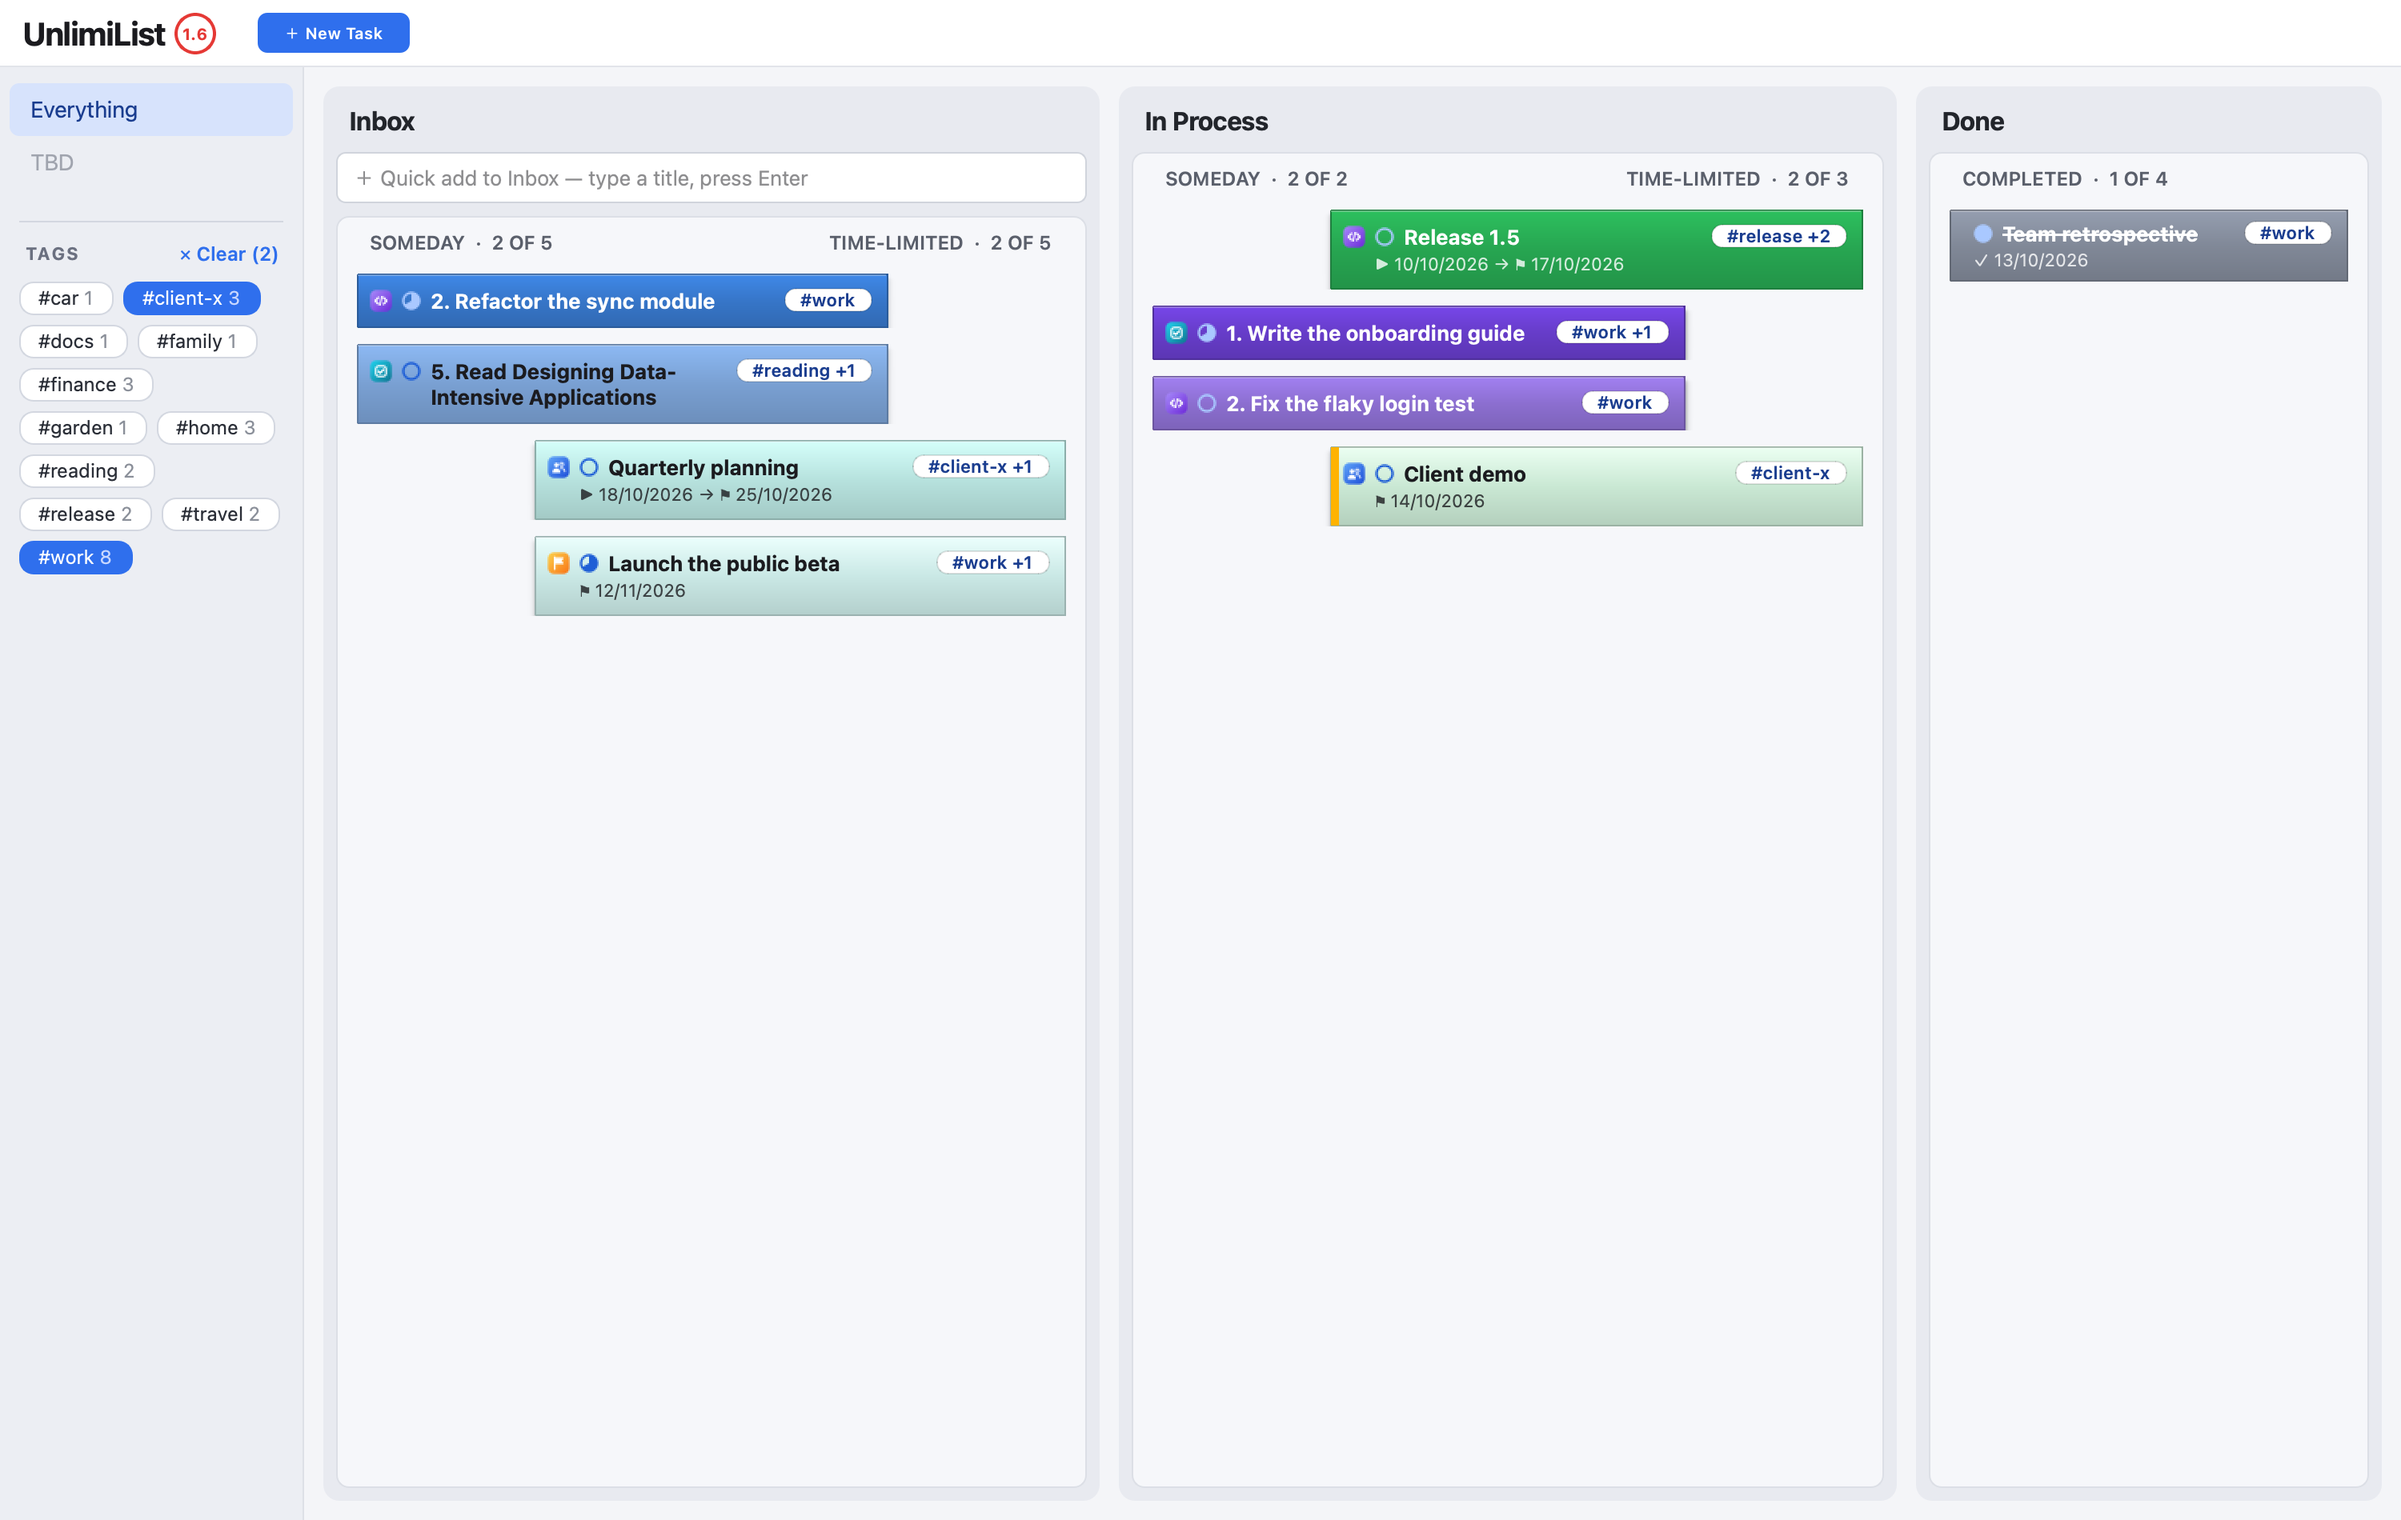
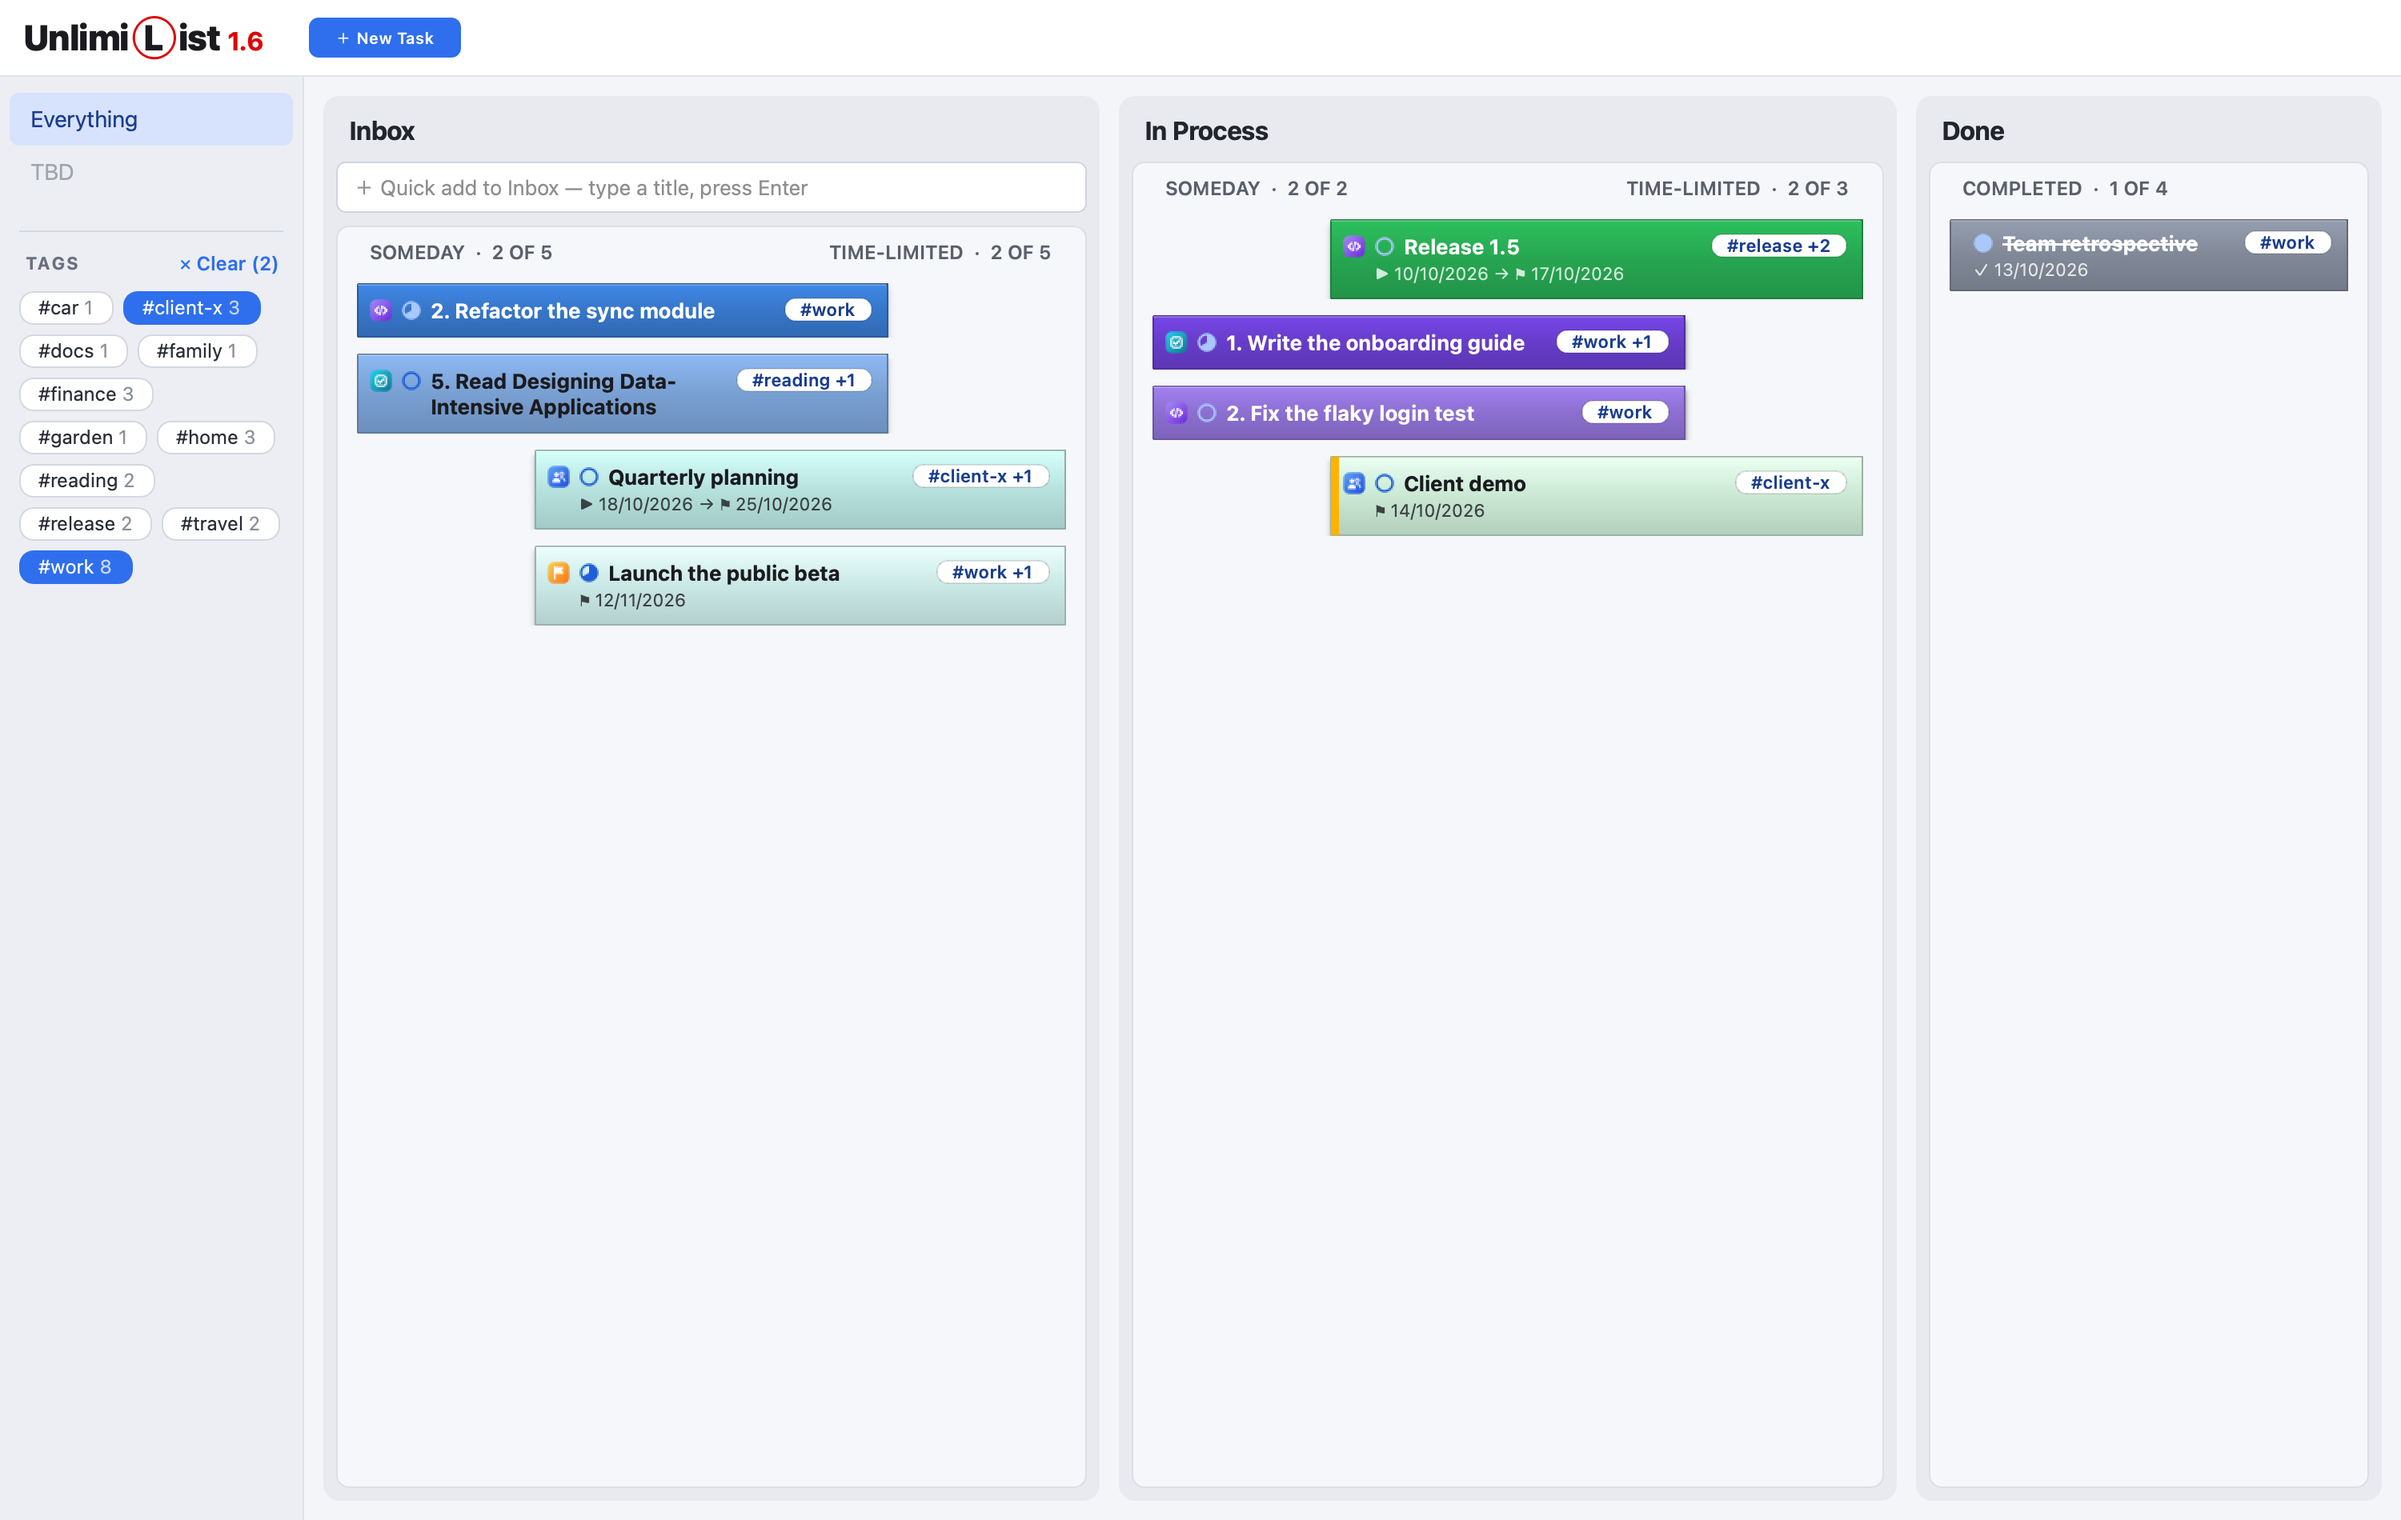
Toolbar title: the L of UnlimiList in a red ring, version in red
Follows the logo reference: "UnlimiList" in extra-bold black with only
the L inside a thin red ring (#DC0405), then the version in bold red
without a circle. The layout uses the letters' outlines rather than font
metrics, so the L sits exactly in the ring's centre and the letters on
either side keep a clear gap from it. Replaces the old version badge.

diff --git a/src/unlimilist/ui/app_title.py b/src/unlimilist/ui/app_title.py
@@ -1,0 +1,115 @@
+"""The app's name in the toolbar: "UnlimiList" in bold, its L inside a thin red ring, then the version in red."""
+
+from PySide6.QtCore import QPointF, QRectF, QSize, Qt
+from PySide6.QtGui import QColor, QFont, QFontMetricsF, QPainter, QPainterPath, QPen
+from PySide6.QtWidgets import QWidget
+
+_INK = QColor("#1B1B1F")
+_RED = QColor("#DC0405")  # the red of the logo reference
+_NAME_PIXELS = 22
+_VERSION_PIXELS = 16
+_RING_TO_CAP = 1.75  # ring diameter, as a multiple of the capital letters' height
+_RING_WIDTH_TO_DIAMETER = 0.045
+_MARGIN = 2
+_GAP_TO_CAP = 0.18  # clear space between the ring and the letters beside it
+_MIN_GAP = 2.5
+
+
+class AppTitle(QWidget):
+    def __init__(self, name: str, version: str, ringed_letter: str = "L", parent=None):
+        super().__init__(parent)
+        self._name = name
+        self._version = version
+        index = name.index(ringed_letter)
+        self._before, self._letter, self._after = name[:index], name[index], name[index + 1 :]
+        self.setAccessibleName(f"{name} {version}")
+        self.setToolTip(f"{name} {version}")
+
+        self._name_font = QFont(self.font())
+        self._name_font.setPixelSize(_NAME_PIXELS)
+        self._name_font.setWeight(QFont.Weight.ExtraBold)
+        self._version_font = QFont(self._name_font)
+        self._version_font.setPixelSize(_VERSION_PIXELS)
+        self._version_font.setWeight(QFont.Weight.Bold)
+        self._layout()
+        self.setFixedSize(self.sizeHint())
+
+    def name(self) -> str:
+        return self._name
+
+    def version(self) -> str:
+        return self._version
+
+    def ring_rect(self) -> QRectF:
+        return QRectF(self._ring)
+
+    def ring_width(self) -> float:
+        return self._pen_width
+
+    def version_rect(self) -> QRectF:
+        return QRectF(self._version_box)
+
+    def name_rect_before_ring(self) -> QRectF:
+        return QRectF(self._before_box)
+
+    def sizeHint(self) -> QSize:
+        return self._size
+
+    def _layout(self) -> None:
+        """Work out where each part goes from the letters' actual outlines, not font metrics: the ring is
+        centred on its letter, and the letters on either side keep a clear gap from it."""
+        version = QFontMetricsF(self._version_font)
+        letter = _ink(self._name_font, self._letter)
+        cap = letter.height()
+        diameter = cap * _RING_TO_CAP
+        self._pen_width = max(1.5, diameter * _RING_WIDTH_TO_DIAMETER)
+        gap = max(_MIN_GAP, cap * _GAP_TO_CAP)
+        height = diameter + 2 * _MARGIN
+        centre_y = height / 2
+        self._baseline = centre_y - letter.center().y()
+
+        before = _ink(self._name_font, self._before)
+        self._before_x = _MARGIN - before.left()
+        self._before_box = QRectF(_MARGIN, self._baseline + before.top(), before.width(), before.height())
+        ring_left = _MARGIN + before.width() + gap
+        self._ring = QRectF(ring_left, centre_y - diameter / 2, diameter, diameter)
+        self._letter_x = self._ring.center().x() - letter.center().x()
+
+        after = _ink(self._name_font, self._after)
+        self._after_x = self._ring.right() + gap - after.left()
+        x = self._after_x + after.right() + QFontMetricsF(self._name_font).horizontalAdvance(" ") * 1.1
+        self._version_x = x
+        version_width = version.horizontalAdvance(self._version)
+        self._version_box = QRectF(x, self._baseline - version.capHeight(), version_width, version.capHeight())
+        x += version_width + _MARGIN
+        self._size = QSize(int(x + 1), int(height + 1))
+
+    def paintEvent(self, event):
+        painter = QPainter(self)
+        painter.setRenderHint(QPainter.RenderHint.Antialiasing)
+        painter.setRenderHint(QPainter.RenderHint.TextAntialiasing)
+
+        painter.setFont(self._name_font)
+        painter.setPen(_INK)
+        painter.drawText(QPointF(self._before_x, self._baseline), self._before)
+        painter.drawText(QPointF(self._letter_x, self._baseline), self._letter)
+        painter.drawText(QPointF(self._after_x, self._baseline), self._after)
+
+        painter.setPen(QPen(_RED, self._pen_width))
+        painter.setBrush(Qt.BrushStyle.NoBrush)
+        inset = self._pen_width / 2
+        painter.drawEllipse(self._ring.adjusted(inset, inset, -inset, -inset))
+
+        painter.setFont(self._version_font)
+        painter.setPen(_RED)
+        painter.drawText(QPointF(self._version_x, self._baseline), self._version)
+        painter.end()
+
+
+def _ink(font: QFont, text: str) -> QRectF:
+    """The exact bounds of `text`'s outline when drawn at the origin (y is negative above the baseline)."""
+    if not text:
+        return QRectF()
+    path = QPainterPath()
+    path.addText(0, 0, font, text)
+    return path.boundingRect()

diff --git a/tests/test_ui.py b/tests/test_ui.py
@@ -369,8 +369,9 @@ def test_window_has_the_app_icon(window):
 
 
 def test_toolbar_shows_the_app_name_with_its_version(window):
-    assert window.app_title.text() == "UnlimiList"
-    assert window.version_badge.text() == "1.6"
+    title = window.app_title
+    assert (title.name(), title.version()) == ("UnlimiList", "1.6")
+    assert title.accessibleName() == "UnlimiList 1.6"
     assert window.windowTitle() == "UnlimiList 1.6"
 
 
@@ -966,3 +967,58 @@ def test_the_suggestions_belong_to_the_dialog_window_so_they_show_above_it(qtbot
     popup = tag_dialog.details_editor.tag_popup
     assert popup.isVisible()
     assert popup.windowHandle().transientParent() is tag_dialog.windowHandle()
+
+
+def red_pixels(image, rect, scale):
+    left, top = int(rect.left() * scale), int(rect.top() * scale)
+    right, bottom = int(rect.right() * scale), int(rect.bottom() * scale)
+    return sum(is_red(image.pixelColor(x, y)) for x in range(left, right) for y in range(top, bottom))
+
+
+def test_toolbar_title_rings_the_l_and_writes_the_version_in_red(window):
+    title = window.app_title
+    image = title.grab().toImage()
+    scale = image.devicePixelRatio()
+    ring = title.ring_rect()
+
+    assert is_red(image.pixelColor(int(ring.center().x() * scale), int((ring.top() + 0.5) * scale)))  # top of the ring
+    assert red_pixels(image, title.version_rect(), scale) > 0
+    assert red_pixels(image, title.name_rect_before_ring(), scale) == 0  # "Unlimi" stays black
+
+
+def ink_pixels(widget, scale=4):
+    """Positions (in widget pixels) of the dark, non-red pixels the widget draws, rendered at `scale`."""
+    from PySide6.QtGui import QPixmap
+
+    pixmap = QPixmap(widget.size() * scale)
+    pixmap.setDevicePixelRatio(scale)
+    pixmap.fill(Qt.GlobalColor.white)
+    widget.render(pixmap)
+    image = pixmap.toImage()
+    dark = []
+    for x in range(image.width()):
+        for y in range(image.height()):
+            colour = image.pixelColor(x, y)
+            if colour.lightness() < 110 and colour.red() - colour.green() < 60:
+                dark.append(((x + 0.5) / scale, (y + 0.5) / scale))
+    return dark
+
+
+def test_toolbar_title_centres_the_l_in_its_ring_and_no_letter_touches_the_ring(window):
+    title = window.app_title
+    ring = title.ring_rect()
+    cx, cy = ring.center().x(), ring.center().y()
+    outer = ring.width() / 2
+    inner = outer - title.ring_width()
+
+    def distance(point):
+        return ((point[0] - cx) ** 2 + (point[1] - cy) ** 2) ** 0.5
+
+    ink = ink_pixels(title)
+    inside = [p for p in ink if distance(p) < inner]
+    touching = [p for p in ink if inner - 1 <= distance(p) <= outer + 2]
+
+    xs, ys = [p[0] for p in inside], [p[1] for p in inside]
+    assert abs((min(xs) + max(xs)) / 2 - cx) <= 0.5  # the L is centred across the ring
+    assert abs((min(ys) + max(ys)) / 2 - cy) <= 0.5  # and from top to bottom
+    assert touching == []  # nothing dark on the ring or within 2 px outside it

diff --git a/src/unlimilist/ui/main_window.py b/src/unlimilist/ui/main_window.py
@@ -5,7 +5,6 @@ from PySide6.QtGui import QAction, QCursor, QKeySequence
 from PySide6.QtWidgets import (
     QDialog,
     QHBoxLayout,
-    QLabel,
     QMainWindow,
     QMessageBox,
     QWidget,
@@ -14,6 +13,7 @@ from PySide6.QtWidgets import (
 from unlimilist import __version__
 from unlimilist.board import Board
 from unlimilist.domain import LaneKind, Stage, UnfinishedSubtasks
+from unlimilist.ui.app_title import AppTitle
 from unlimilist.ui.balloon import Balloon
 from unlimilist.ui.board_view import BoardView
 from unlimilist.ui.icons import app_icon
@@ -81,21 +81,15 @@ class MainWindow(QMainWindow):
         self.resize(min(width, screen.width()), min(height, screen.height()))
 
     def _build_title(self) -> QWidget:
-        """The app's name with its version in a small red circle."""
-        self.app_title = QLabel(_APP_NAME)
+        """The app's name, its L in a red ring, then the version in red."""
+        self.app_title = AppTitle(_APP_NAME, _VERSION)
         self.app_title.setObjectName("appTitle")
-        self.version_badge = QLabel(_VERSION)
-        self.version_badge.setObjectName("versionBadge")
-        self.version_badge.setAlignment(Qt.AlignmentFlag.AlignCenter)
-        self.version_badge.setFixedSize(26, 26)
 
         title = QWidget()
         title.setObjectName("titleBlock")
         layout = QHBoxLayout(title)
         layout.setContentsMargins(6, 0, 18, 0)
-        layout.setSpacing(5)
-        layout.addWidget(self.app_title)
-        layout.addWidget(self.version_badge, 0, Qt.AlignmentFlag.AlignTop)
+        layout.addWidget(self.app_title, 0, Qt.AlignmentFlag.AlignVCenter)
         return title
 
     def refresh(self) -> None:

diff --git a/src/unlimilist/app.py b/src/unlimilist/app.py
@@ -17,9 +17,6 @@ QMainWindow, QWidget#central { background: #F4F5F8; }
 QToolBar { background: #FFFFFF; border: none; border-bottom: 1px solid #E2E4EA; padding: 4px 8px; spacing: 8px; }
 QToolBar QToolButton { background: #2F6FED; color: white; border-radius: 6px; padding: 5px 12px; font-weight: 600; }
 QToolBar QToolButton:hover { background: #255CD0; }
-QLabel#appTitle { font-size: 20px; font-weight: 700; color: #1B1B1F; }
-QLabel#versionBadge { background: transparent; border: 1.5px solid #E53935; border-radius: 13px;
-    color: #E53935; font-size: 10px; font-weight: 700; }
 
 QFrame#sidebarPane { background: #ECEEF3; border: none; border-right: 1px solid #DDE0E7; }
 QListWidget#sidebar { background: #ECEEF3; border: none; padding: 10px 6px 4px 6px; font-size: 14px; color: #1B1B1F; }
